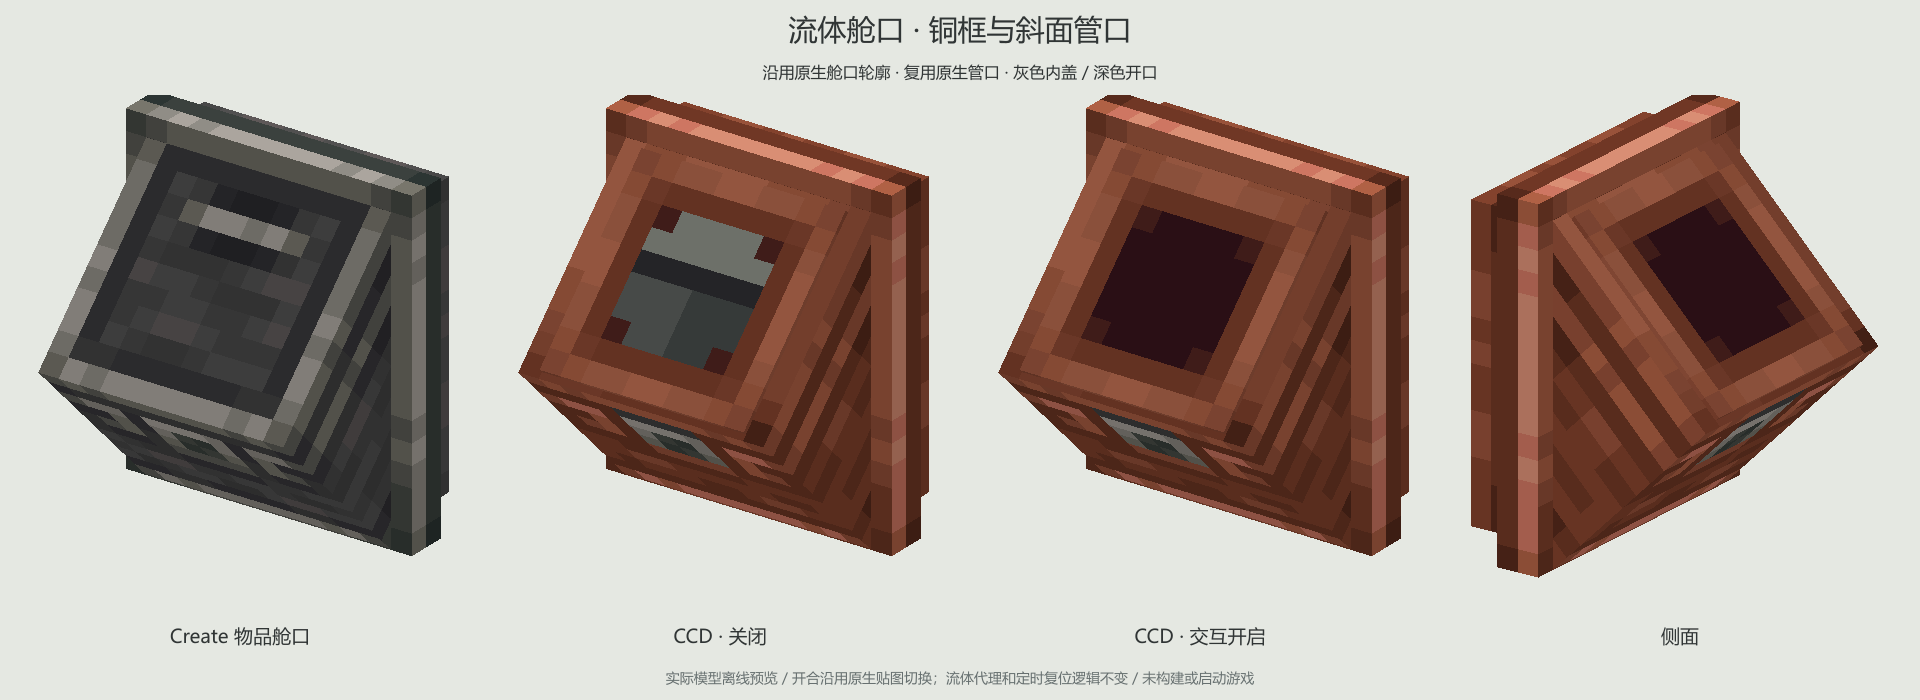
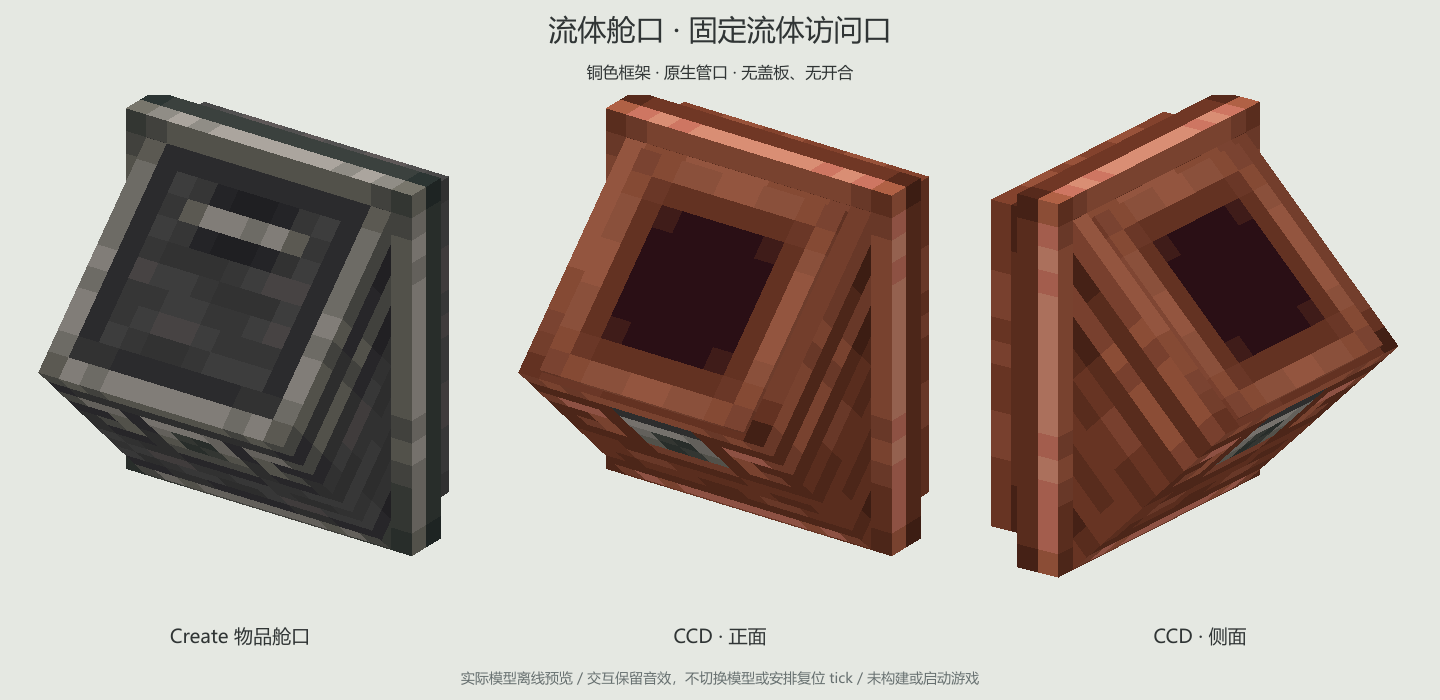
Keep fluid hatches fixed and remove interaction lid feedback

diff --git a/src/main/java/dev/ccd/content/FluidHatchBlock.java b/src/main/java/dev/ccd/content/FluidHatchBlock.java
@@ -22,7 +22,7 @@ import net.minecraft.world.phys.BlockHitResult;
 import net.neoforged.neoforge.common.Tags;
 import net.neoforged.neoforge.common.util.FakePlayer;
 
-/** Native hatch placement, geometry, waterlogging, wrenching and timed closing; fluid interaction only. */
+/** Native hatch placement, waterlogging and wrenching; fixed fluid access without lid feedback. */
 public class FluidHatchBlock extends ItemHatchBlock {
     public static final MapCodec<FluidHatchBlock> CODEC = simpleCodec(FluidHatchBlock::new);
 
@@ -47,8 +47,6 @@ public class FluidHatchBlock extends ItemHatchBlock {
         // Reuse the same generic container handling as Create's tank, including bottles and potions.
         if (hatch.exchangeWith(player, hand, stack)) {
             AllSoundEvents.ITEM_HATCH.playOnServer(level, pos);
-            level.setBlockAndUpdate(pos, state.setValue(OPEN, true));
-            level.scheduleTick(pos, this, 10);
         } else player.displayClientMessage(Component.translatable("ccd.fluid_hatch.rejected").withStyle(ChatFormatting.RED), true);
         // Consume failed fluid-container interactions so a bucket cannot place its fluid into the world instead.
         return ItemInteractionResult.SUCCESS;

diff --git a/README.md b/README.md
@@ -134,11 +134,11 @@
 2. 手持桶或 Create 原生通用取放机制支持的流体容器右击：优先将容器内流体放入背后容器，不能放入时尝试取出。玻璃瓶、药水及第三方标准流体容器按 Create 的通用规则处理；潜行时也只处理手中容器，不批量处理整个背包。
 3. 手动取放复用 `FluidHelper.tryEmptyItemIntoBE`／`tryFillItemFromBE`，生存模式也可操作。取液时额外模拟源容器的可抽取量，避免只读或限流接口被绕过。创造模式沿用原生不改变手中物品的规则。
 4. 管道连接舱口正面，直接操作背后容器朝向舱口的那个面，不绕过对方的进出限制。也可供动力移液臂、流体打包机和其他遵循标准接口的设备访问。舱口本身不主动泵送、不提供压力、不增加储量或吞吐限制。
-5. 没有内部储罐、物品库存或过滤槽。护目镜显示背后容器的实时流体与容量。手动取放成功会沿用原生开合及音效，10 tick 后关闭；关闭外观不会阻断管道。
+5. 没有内部储罐、物品库存或过滤槽。护目镜显示背后容器的实时流体与容量。手动取放成功保留原生音效，外观固定，不触发开合或安排延时复位。
 6. 每次操作重新查询背后接口；接口变化、容器拆除、舱口旋转后不会继续操作旧容器。未加载的区块不被强制加载。转接链最多经过 64 个舱口，并拦截循环引用。
 7. 同一容器经多个 CCD 舱口接入流体物流时，库存身份解析到实际容器；Create 多方块储罐继续按控制器去重。第三方模组自己的跨方块代理仍受原有身份识别范围限制。
 
-外观保留原生舱口轮廓，铜色框架配斜面原生流体管口；关闭时显示灰色内盖，手动交互开启时露出深色管孔，见 `docs/fluid-hatch-model.md`。智能版暂时保留原有模型。
+外观保留原生舱口轮廓，铜色框架配斜面原生流体管口；始终露出深色管孔，不设置盖板或开合，见 `docs/fluid-hatch-model.md`。智能版暂时保留原有模型。
 
 容器缺失、流体不匹配或容量不足时保留手中容器，并拦截后续的桶放置行为。取放结果以遵守标准流体接口的容器为前提，未另行实现液体缓存或事务系统。仅做静态代码与资源检查及离线模型预览，未构建或运行验证。
 
@@ -152,7 +152,7 @@
 - 手动取液先按当前容器所需数量模拟抽取，并检查过滤，不能通过装瓶路径绕过限制。修改过滤后，原有流体能力代理立即使用新条件，并使正面相邻管路重新计算。
 - 库存读取和护目镜继续显示背后容器的真实存量，过滤限制进出，不生成独立库存；物流仍按实际容器／Create 储罐控制器去重。过滤条件的相交约束也适用于连续舱口。
 
-仍无内部储罐；水平安装、含水、开合、扳手回收及接口有效性保护继承普通舱口。仅做静态检查，未构建或进行游戏验证。
+仍无内部储罐；水平安装、含水、扳手回收及接口有效性保护继承普通舱口，外观固定，不触发开合。仅做静态检查，未构建或进行游戏验证。
 
 ## 动力移液臂
 

diff --git a/docs/fluid-hatch-model.md b/docs/fluid-hatch-model.md
@@ -4,12 +4,12 @@
 
 `frame.png` 是原生 32×32 `hatch.png` 的铜色变体，使用 pixel-art 技能按整数像素改色；保留原生深色凹槽、下方小金属构件及全部 alpha。框架的磨损和像素布局沿用原生资源，没有增加铆钉。斜面铜板复用 CCD 已有的 16×16 `faucet/body` 贴图。
 
-管口侧壁与开启端面直接引用原生 `pipes.png`。关闭端面使用其 32×32 派生贴图 `pipe_cap.png`，仅将孔内 32 个深色像素替换为灰色内盖，铜圈和全部透明度保持不变。开启后端面回到原生深色管孔。原生舱口本身也是切换贴图表达开合，没有新增舱门动画或方块实体渲染器。
+管口侧壁与端面直接引用原生 `pipes.png`，始终露出深色管孔，不使用内盖、开合贴图或舱门动画。移除原来的灰色内盖派生贴图与开启模型。
 
-开合仍表示手动容器交互后的短暂反馈，10 tick 后复位；关闭外观不阻断流体代理。四向状态、含水、碰撞、安装、扳手、手持容器操作及后方容器访问逻辑均不修改。物品模型继续继承关闭模型。
+普通版和智能版在手持容器交互成功后只播放原生音效，不切换 OPEN，不安排 10 tick 复位。为继续继承 ItemHatchBlock，保留父类构造要求的 OPEN 属性，但它不参与 CCD 的交互和模型选择；方块状态资源只按四个水平方向选择固定模型。含水、碰撞、安装、扳手、手持容器取放及后方容器访问逻辑继续沿用既有实现。普通版物品模型继续继承固定管口模型。
 
-智能流体舱口暂不进行本次外观改造：其关闭模型直接继承原生物品舱口并覆盖黄铜机壳，等价于修改前的完整继承结果，避免普通版新管口穿入原生过滤槽。开启和物品模型继续按原有方式继承，过滤坐标及渲染不动。
+智能版暂不进行结构改造：固定使用原有黄铜机壳与过滤面板几何，过滤坐标及渲染不动；同样取消开合反馈，移除其开启模型。
 
-生成器为 `tools/create-fluid-hatch.cjs`，参数为解压后的 Create 源码根目录。`outputs/fluid-hatch/preview.png` 展示原生舱口、关闭、交互开启和侧面，`textures.png` 展示两张派生图集，`model.meta.json` 记录资源来源与变换。仅静态检查与离线渲染，未构建、测试或启动游戏；离线预览不是游戏内验证。
+生成器为 `tools/create-fluid-hatch.cjs`，参数为解压后的 Create 源码根目录。`outputs/fluid-hatch/preview.png` 展示原生舱口、CCD 正面和侧面，`textures.png` 展示铜色框架图集，`model.meta.json` 记录资源来源与变换。仅静态检查与离线渲染，未构建、测试或启动游戏；离线预览不是游戏内验证。
 
 原生舱口、管口几何及贴图归 The Create Team / The Creators of Create 所有。上述改色和内盖像素属于派生修改，不将上游美术标为 CCD 原创或 MIT 资源；许可见 [Create LICENSE.md](https://github.com/Creators-of-Create/Create/blob/mc1.21.1/dev/LICENSE.md)。

diff --git a/docs/create-reuse.md b/docs/create-reuse.md
@@ -80,7 +80,7 @@
 ## 流体舱口
 
 - 先阅读 `ItemHatchBlock`／`ItemHatchBlockEntity`／`ItemHatchHandler`／`HatchFilterSlot`、`FluidTankBlock`／`FluidTankBlockEntity`、`FluidHelper`、`GenericItemEmptying`／`GenericItemFilling`、`PortableFluidInterfaceBlockEntity`、`FluidPipeBlock`／`FluidPropagator` 和 `IHaveGoggleInformation`。仅使用 Create 源码及 NeoForge API，没有读取三个流体附属的实现代码。
-- `FluidHatchBlock extends ItemHatchBlock`，直接复用水平侧面安装、含水状态、形状、扳手行为、10 tick 定时关闭及移除方块实体逻辑。模型保留原生舱口几何，在铜色斜面框架中央加入原生流体管口，指定 `cutout_mipped` 渲染层。开合仍通过端面贴图切换表达，不更改流体逻辑，详见 `docs/fluid-hatch-model.md`；智能版保留原有外观。
+- `FluidHatchBlock extends ItemHatchBlock`，直接复用水平侧面安装、含水状态、形状、扳手行为及移除方块实体逻辑；手动取放保留音效，不触发开合或延时复位。模型保留原生舱口几何，在铜色斜面框架中央加入原生流体管口，指定 `cutout_mipped` 渲染层。端面固定使用原生深色管孔，不设置灰色内盖或开合，不更改流体代理逻辑，详见 `docs/fluid-hatch-model.md`；智能版保留原有外观。
 - `FluidHatchBlockEntity extends ItemHatchBlockEntity`，普通版覆盖 `addBehaviours` 和 `clearContent`，不创建原生物品过滤行为、物品库存或流体储罐。原生护目镜的 `containedFluidTooltip` 显示的是后方容器实时内容。
 - 通过 NeoForge `Capabilities.FluidHandler.BLOCK` 注册正面及无方向的代理；每次操作查询背后容器朝向舱口面的能力。`FACING` 沿用原生定义，指向容器；正面与被查询容器面均为其反方向。代理保留填充／抽取、模拟／执行和流体组件，不调用无方向的后方接口来绕开面限制。
 - 手动取放直接调用原生 `FluidHelper.tryEmptyItemIntoBE`／`tryFillItemFromBE`，优先灌入，再尝试取出，兼容其玻璃瓶、药水及标准流体容器路径。原生取出方法只检查显示存量、不模拟源端抽取，因此该次交互期间根据 `GenericItemFilling.getRequiredAmountForItem` 取得本次容器所需数量，仅向它显示经精确 `drain(SIMULATE)` 确认可取出的流体，避免绕过只读、限流或定量抽取限制；普通能力读取和护目镜仍显示原始库存。临时容器副本只在该次调用期间使用，finally 清除，不存档、不对外提供库存。执行偏离模拟等接口违约情况没有另建缓冲或事务机制。
